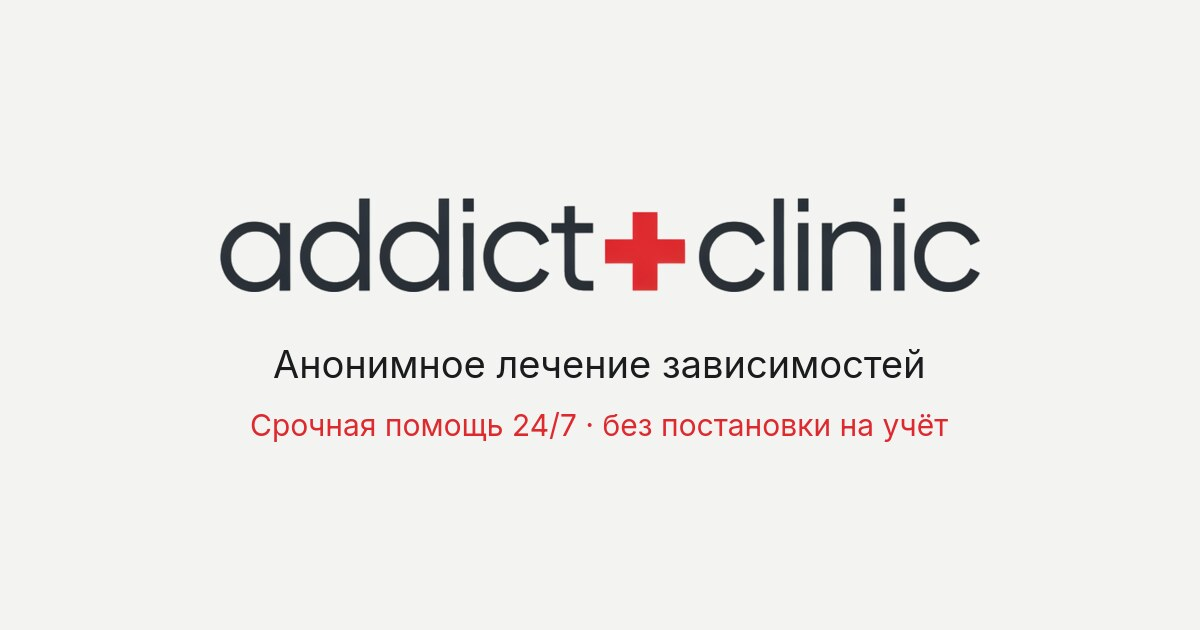
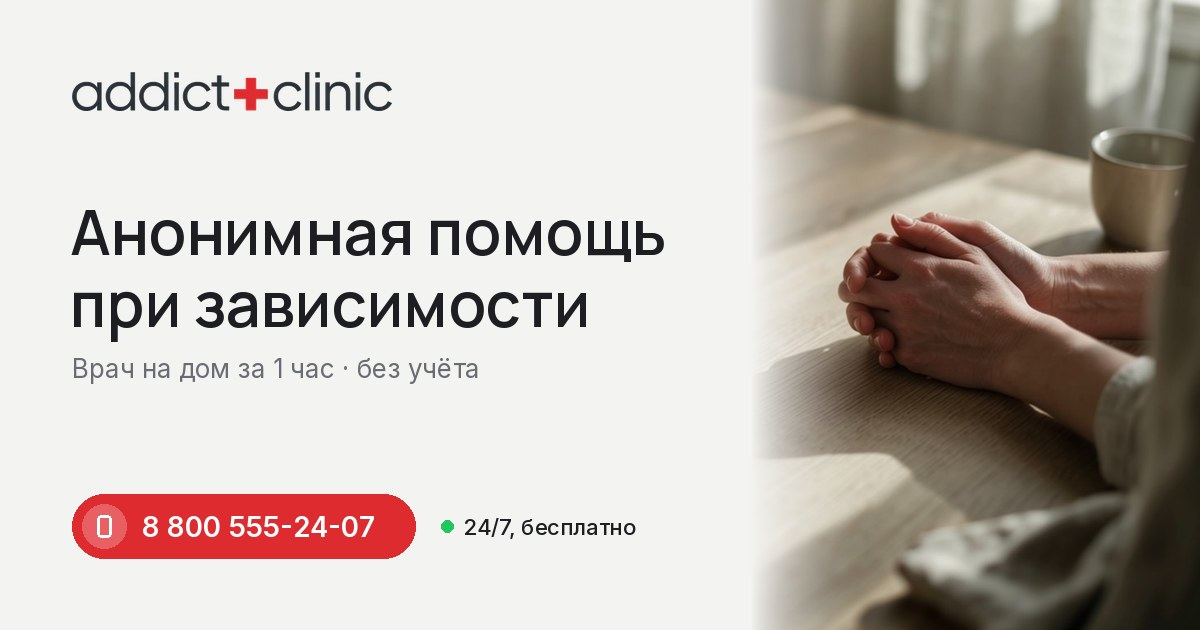
Обновил изображение для соцсетей

diff --git a/index.html b/index.html
@@ -34,14 +34,14 @@
     <meta property="og:url" content="https://addict.clinic/">
     <meta property="og:title" content="Анонимное лечение зависимостей 24/7 — addict.clinic">
     <meta property="og:description" content="Срочный выезд врача, лечение без постановки на учёт, психологическая поддержка круглосуточно.">
-    <meta property="og:image" content="https://addict.clinic/og-image.jpg">
+    <meta property="og:image" content="https://addict.clinic/og-image.jpg?v=2">
     <meta property="og:image:width" content="1200">
     <meta property="og:image:height" content="630">
     <meta property="og:image:alt" content="addict.clinic — анонимное лечение зависимостей">
     <meta name="twitter:card" content="summary_large_image">
     <meta name="twitter:title" content="Анонимное лечение зависимостей 24/7 — addict.clinic">
     <meta name="twitter:description" content="Срочный выезд врача, лечение без постановки на учёт, психологическая поддержка круглосуточно.">
-    <meta name="twitter:image" content="https://addict.clinic/og-image.jpg">
+    <meta name="twitter:image" content="https://addict.clinic/og-image.jpg?v=2">
 
     <script type="application/ld+json">
     {
@@ -53,7 +53,7 @@
           "name": "addict.clinic",
           "url": "https://addict.clinic/",
           "logo": "https://addict.clinic/logo.png",
-          "image": "https://addict.clinic/og-image.jpg",
+          "image": "https://addict.clinic/og-image.jpg?v=2",
           "description": "Медицинский центр анонимного лечения зависимостей: алкоголизм, наркомания, лекарственная зависимость, игромания. Выезд врача 24/7.",
           "telephone": "+7-800-555-24-07",
           "priceRange": "₽₽",

diff --git a/src/lib/seo.ts b/src/lib/seo.ts
@@ -31,7 +31,7 @@ const setLink = (rel: string, href: string) => {
   el.setAttribute("href", href);
 };
 
-export const useSeo = ({ title, description, path, image = "/og-image.jpg", noindex, jsonLd }: Seo) => {
+export const useSeo = ({ title, description, path, image = "/og-image.jpg?v=2", noindex, jsonLd }: Seo) => {
   useEffect(() => {
     const url = SITE_URL + path;
     const img = image.startsWith("http") ? image : SITE_URL + image;
